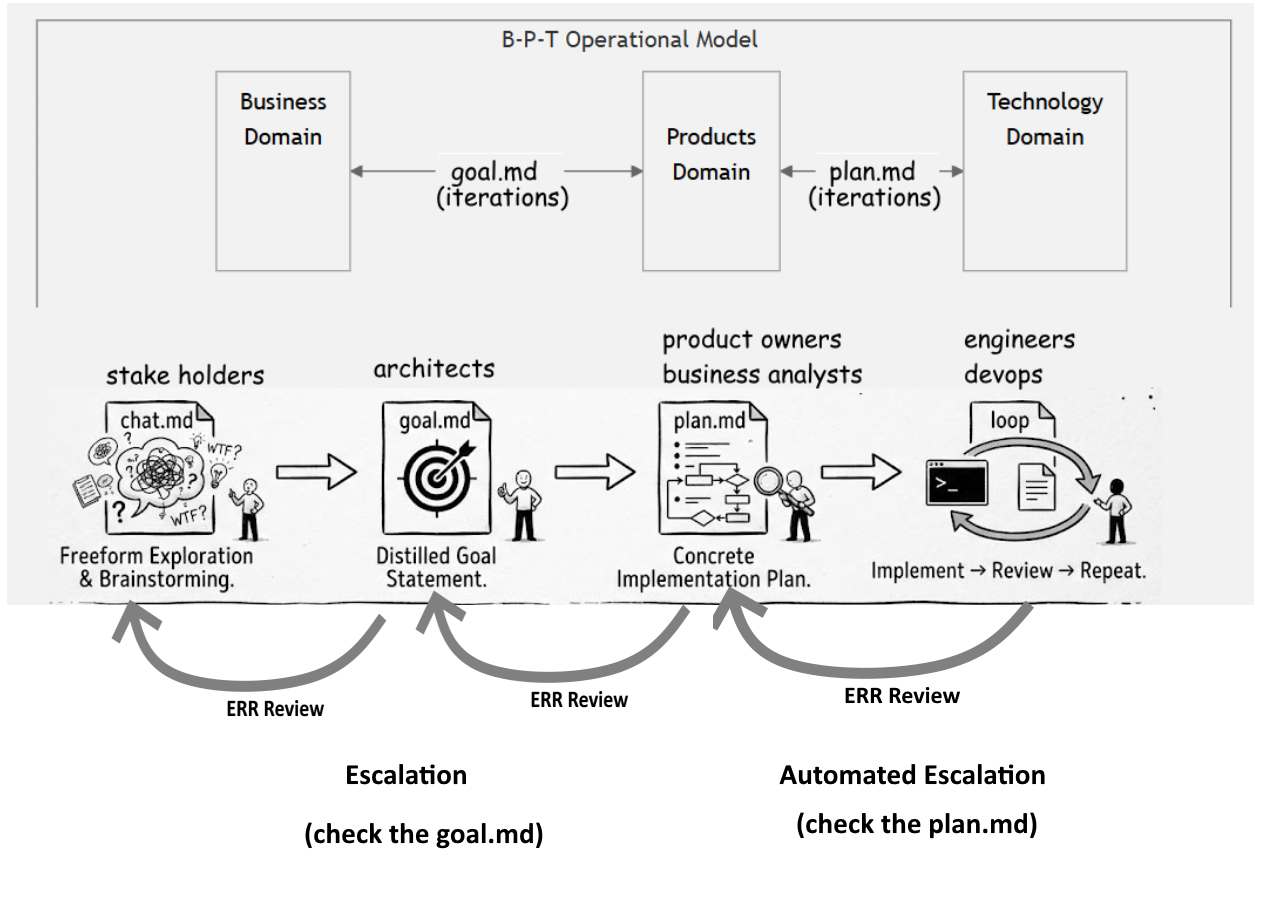
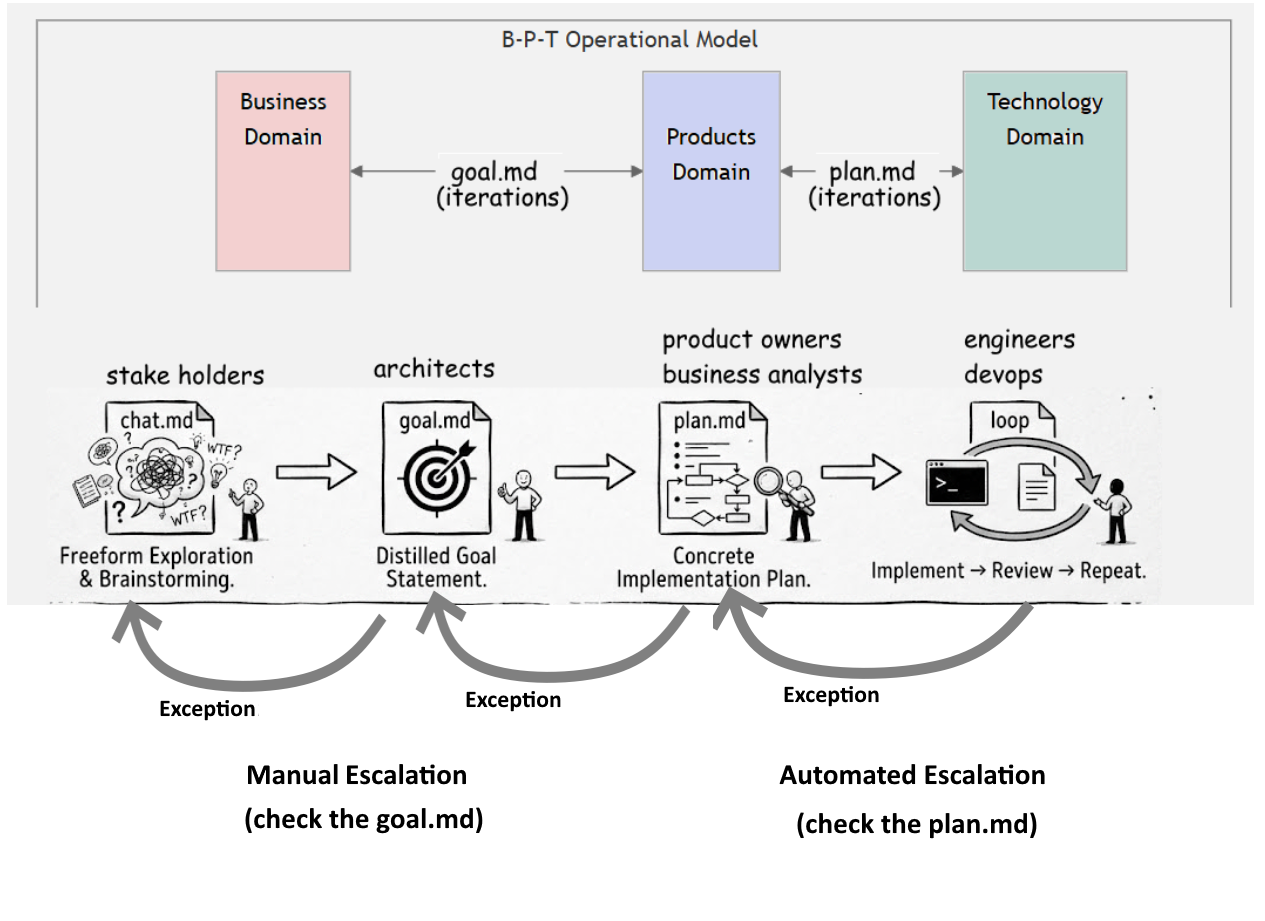
bpt + exceptions

diff --git a/content/posts/concrete-application/index.md b/content/posts/concrete-application/index.md
@@ -1,65 +1,102 @@
 ---
-title: "A Concrete Application"
+title: "BPT simply and feasibly applied"
 date: 2026-08-07
-description: An organization following BPT operational model. Anchored in a mature AI dev environment. Contrasted to  the anti-pattern most post-ai-pilot organizations are self exposed to."
+description: Example of an organization feasibly following BPT operational model. Company is anchored in a mature AI dev environment. Contrasted to the anti-pattern most post-ai-pilot organizations are self exposed to."
 tags: ["DBJ", "BPT", "AI", "Method", "Operational Model", "Product", "Development"]
 author: "Dusan B. Jovanovic"
 version: 0.4
 featured: true
 cover:
-  image: "bpt-in-mature-ai-dev-env.png"
+  image: "bpt-and-escalation.png"
 ---
+![alt text](bpt-and-escalation.png)
+<span style="font-size:2rem;">T</span>hink about it. Everything revolves around a "Product". Business/Industry/Investors, all actors think in terms of Products. Not Software, Architectural or some other  artifacts. After  Business decided they know WHY do the need it, product owners and business analyst are iterating to define WHAT business wants. Just then it is feasible to deploy the consistent plan to the Technology people, to decide HOW will it be done. The better information they have the less time they will spend iterating to "understand the thing". Better means detailed, articulated, with requirements managed and clarified. No ambiguities.
 
-<span style="font-size:2rem;">W</span>hen you think about it. Everything revolves around a "Product". Business/Industry/Investors, all think in terms of Products. Not Software, Architectural or some other  artifacts. After  Business decided they know WHY do the need it, product owners and business analyst are iterating to define WHAT business wants. Just then it is feasible to deploy the consistent plan to the Technology people, to decide HOW will it be done. The better information they have the less time they will spend iterating to "understand the thing". Better means detailed, articulated, with requirements managed and clarified. No ambiguities.
+The image above is an product development Operational Model, inside an (well behaved and organized) company. Company that has adopted and implemented the BPT and has learned how to use an LLM, and how not to. Crucially under the [guidance of the "BPT Method"](https://method.dbj.org/kb/BPT_Operational_Model/engagement_architecture/index).
 
-The image above is an product development, inside an (well behaved and organized) company; that has adopted and implemented the BPT and has learned how to use an LLM, and how not to. Crucially under the [guidance of the "BPT Method"](https://method.dbj.org/kb/BPT_Operational_Model/engagement_architecture/index).
+> **Caveat Emptor**: DBJ BPT is not "[Product Driven Development](https://www.lyssna.com/blog/product-driven-development/)". [DBJ BPT](https://method.dbj.org/onboarding/section-03.html) is (much) wider in scope. It is organizational  operational model. Basically if adopted it changes the whole organization. And delivers ROI. AI or no AI.
 
-## The Top Half: BPT Applied
+## BPT Applied, AI First
 
-Four stages, each iterating to produce an artifact:
+Four stages, each iterating with the next, to produce three artifact:
 
-1. **`chat.md`** — freeform exploration. Confusion belongs here, and only here. This is where the organization finds out what it does not yet understand. WHY do they want the Product.
-2. **`goal.md`** — the distilled goal statement. Architecture, stated. Iterating between Business and Product team until it is agreed.
-3. **`plan.md`** — the concrete implementation plan. Steps, dependencies, order. Iterating between Product and Technology team until it is agreed. At this stage Product team has the visibility of the goal.md and can go back to Business to reconfirm the decisions or to provoke the goal.md revisiting.
-4. **The primordial loop** — implement, review, repeat. Simple and stoppable. 
-   1. Most important: each technology product review activity will be able to backtrace, to the origin. Business is accountable.
-   2. Full trace back, when some says: "This is not what I wanted": all the way to the business decisions and the product team decisions.
-   3. This is very powerful capability of the BPT OP Model: going back to the real source of an issue. Outside of the confines of the technology.
+(md names are arbitrary, but fixed, once agreed)
 
-Design, then code. Not a new idea. What is critical is that stages B and P are now, sending fully articulated product declaration artifacts. very malleable for a mature AI development where the model is given a goal and a plan, not a wish. Not prompt and pray.
+1. **`chat.md`** — freeform exploration. Confusion belongs here. Where the organization stake holders find out what do they not understand. WHY do they want the Product.
+   1. Veryoftenit is iterated only over between "Business" and the "Product"
+2. **`goal.md`** — the distilled goal statement artifact. Architecture gets involved. Iterating between Business and Product teams, the public deliverable, signed and staying
+   1. Now note the **Exceptions**. Note the optional cascading and the overall effect.
+      1. BPT Exceptions are "all hands" events carrying the full trace: where it happened, and what has happened
+         1. BPT Exception is caught by the domain where it originated from. Because non Engineering roles missed the problem that caused the Exception being thrown "down the line". 
+            1. That is  BPT Agility, inbuilt backtracking events
+   2. Exception are operating model mechanisms. 
+   3. Carrying the information used to discover and solve the cause. 
+      1. To notice and rectify the expensive mistakes, on the level of organization, not inside the Technology domain which has no view into the domains that cause the Sequence of Event that led to a Exception.
+3. **`plan.md`** — the concrete implementation plan, made by roles in the Product team. Business Analyst being the important on
+   1. Steps, dependencies, order. Iterating between Product and Technology team until it is agreed. 
+      1. At this stage Product team has the visibility of the goal.md and can go back to Business to reconfirm the decisions or to provoke the goal.md revisiting.
 
-Please note what this is not. It is not a tooling standard. It is not a LLM recommendation or choice. BPT defines stages, named artifacts, and ownership at each step, with a internal review loop with backtrace feature — the simple operational model made visible at the level of everyone in the organization owning the outcome . 
+When some says: "This is not what I wanted" BPT Exception is thrown out of the technology domain,
 
-There are various kinds of Products. Change the information artifacts and the same OP Model governs procurement, or claims, or onboarding. Not just public software products. 
+   
+   1. Important BPT Model feature: each technology product review activity will be able to throw the Exception back to the Product domain.
+   2. Eventually arriving to the Business, if Product demands. 
+      1. Top accountable domain.
+   3. Exception cascading is propagating with the full trace back, all the way to the business decisions and the product team decisions.
+   4. This is very powerful capability of the BPT OP Model: going back to the real source of an issue. 
+      1. Outside of the confines of the technology.
+
+Design, then code. Not a new idea. 
+
+1. Origins are in the good old primordial loop
+   1. Design, implement, review, repeat. 
+2. But 
+   1. tightly monitored.Simple and stoppable. 
+   
+
+What is critical is that stages Business and Product are sending fully articulated product declaration and requirements artifacts. 
+
+Very malleable for a mature AI development where the model is given a goal and a plan, not a wish. That is not a prompt and pray, anti-pattern
+
+Please note what this is not. It is not a tooling standard. It is not a LLM recommendation or choice. BPT model defines domains, stages, named artifacts, and roles ownership at each step. 
+
+With a internal backtrace loop made possible by the Exception feature — the simple operational model made visible at the level of the organization owning the outcome. 
+
+And the outcome is the Product. Hence the "Product Factory" name.
+
+There are various kinds of Products. Change the artifacts structure and the same Operating Model governs procurement, or claims, or onboarding. Not just public software products. 
 
 ## Do not Prompt and Pray
 
-Market pressure is tremendous. On the same image there is an anti-pattern. One can see them both and compare straight away. A clear and colossal mistake, unfortunately many organizations do make right now. 
+Market pressure is tremendous. A clear and colossal mistake, many organizations do make right now. Unfortunately. 
 
 Someone opens a chat window, types "just build the thing," and "prays". 
 
-No defined input. No defined output. No way to separate success from failure. The model produces something. Nobody can say whether it is correct, because there is nobody who can say what correct means. When it fails, the finding is "the AI model was not good enough," which was never the actual cause.
+No KPIs. No defined input. No defined output. No way to separate success from failure. The model produces something. Nobody can say whether it is correct, because there is nobody who can say what correct means. When it fails, the finding is "the AI model was not good enough," which was never the actual cause.
 
-This is not an AI problem. It is an undefined process running faster. Producing the puzzle. The lack of operational model.
+This is not an AI problem. It is a legacy undefined process just running faster. 
 
-## Why do we care 2026 Q2
+### Why do we care 2026 Q2
 
-At least half of the organizations currently in AI post-pilot zero ROI mode are running the bottom half. They have the licenses for tokens to spend, the AI team, the internal enablement ""something"". They ran the pilot, declared it a success, and scaled out — spreading the anti-pattern with them. Costs we have seen can be catastrophical.
+At least half of the organizations currently in AI post-pilot "zero ROI" mode are following the "Prompt and pray" strategy. There are licenses for tokens to spend, the AI team. They ran the pilot, no KPI of the outcome. 
 
-The pilot "succeeded" in a setting small enough where one person held the goal in their head. There was no `goal.md` because there did not need to be. Scaling that same process to an organization removes the only thing that was holding it together, and no amount of budget can help it.
+It is a success, and it is scaled out — spreading the anti-pattern on the company level. Costs we have seen can be catastrophical.
 
 ## The Summary
 
 BPT information flow is two iterations between the three domains. BPT is not a sequence, it is a loop: the four artifacts are not a waterfall sequence. Namely `goal.md` and `plan.md` are the artifacts produced iterating between domains. And each carries a named roles and origin information across a boundary. 
 
-**The Gates**. In this BPT implementation `goal.md` and `plan.md` are boundary artifacts; each carries the information passed between two domains. That is what makes them logical gates.
+To be used by Exception throwing and by Exception solving.
+
+`goal.md` and `plan.md` are boundary artifacts; each carries the information passed between two domains. 
 
 **Scalability**. BPT scales. An organization can run these three stages for one developer and one feature, equally sensibly as for a business unit or a transformation programme.
 
 **Product Maintenance** is the most expensive stage of the product lifecycle. BPT loop, categorizes and saves crucial information for the maintenance stage.
 
-If you want to know whether an organization is AI-ready, do not audit the tooling. Watch someone use it. If there is no visible op model, you are looking at the bottom half of the image.
+It is very easy to restart the paused loop. There are artifacts and information needed.
 
+If you want to know whether an organization is AI-ready, do not audit the tooling. Watch someone use it. If there is no visible op model, you are looking at the problem.
 
 > 
 > &nbsp;
